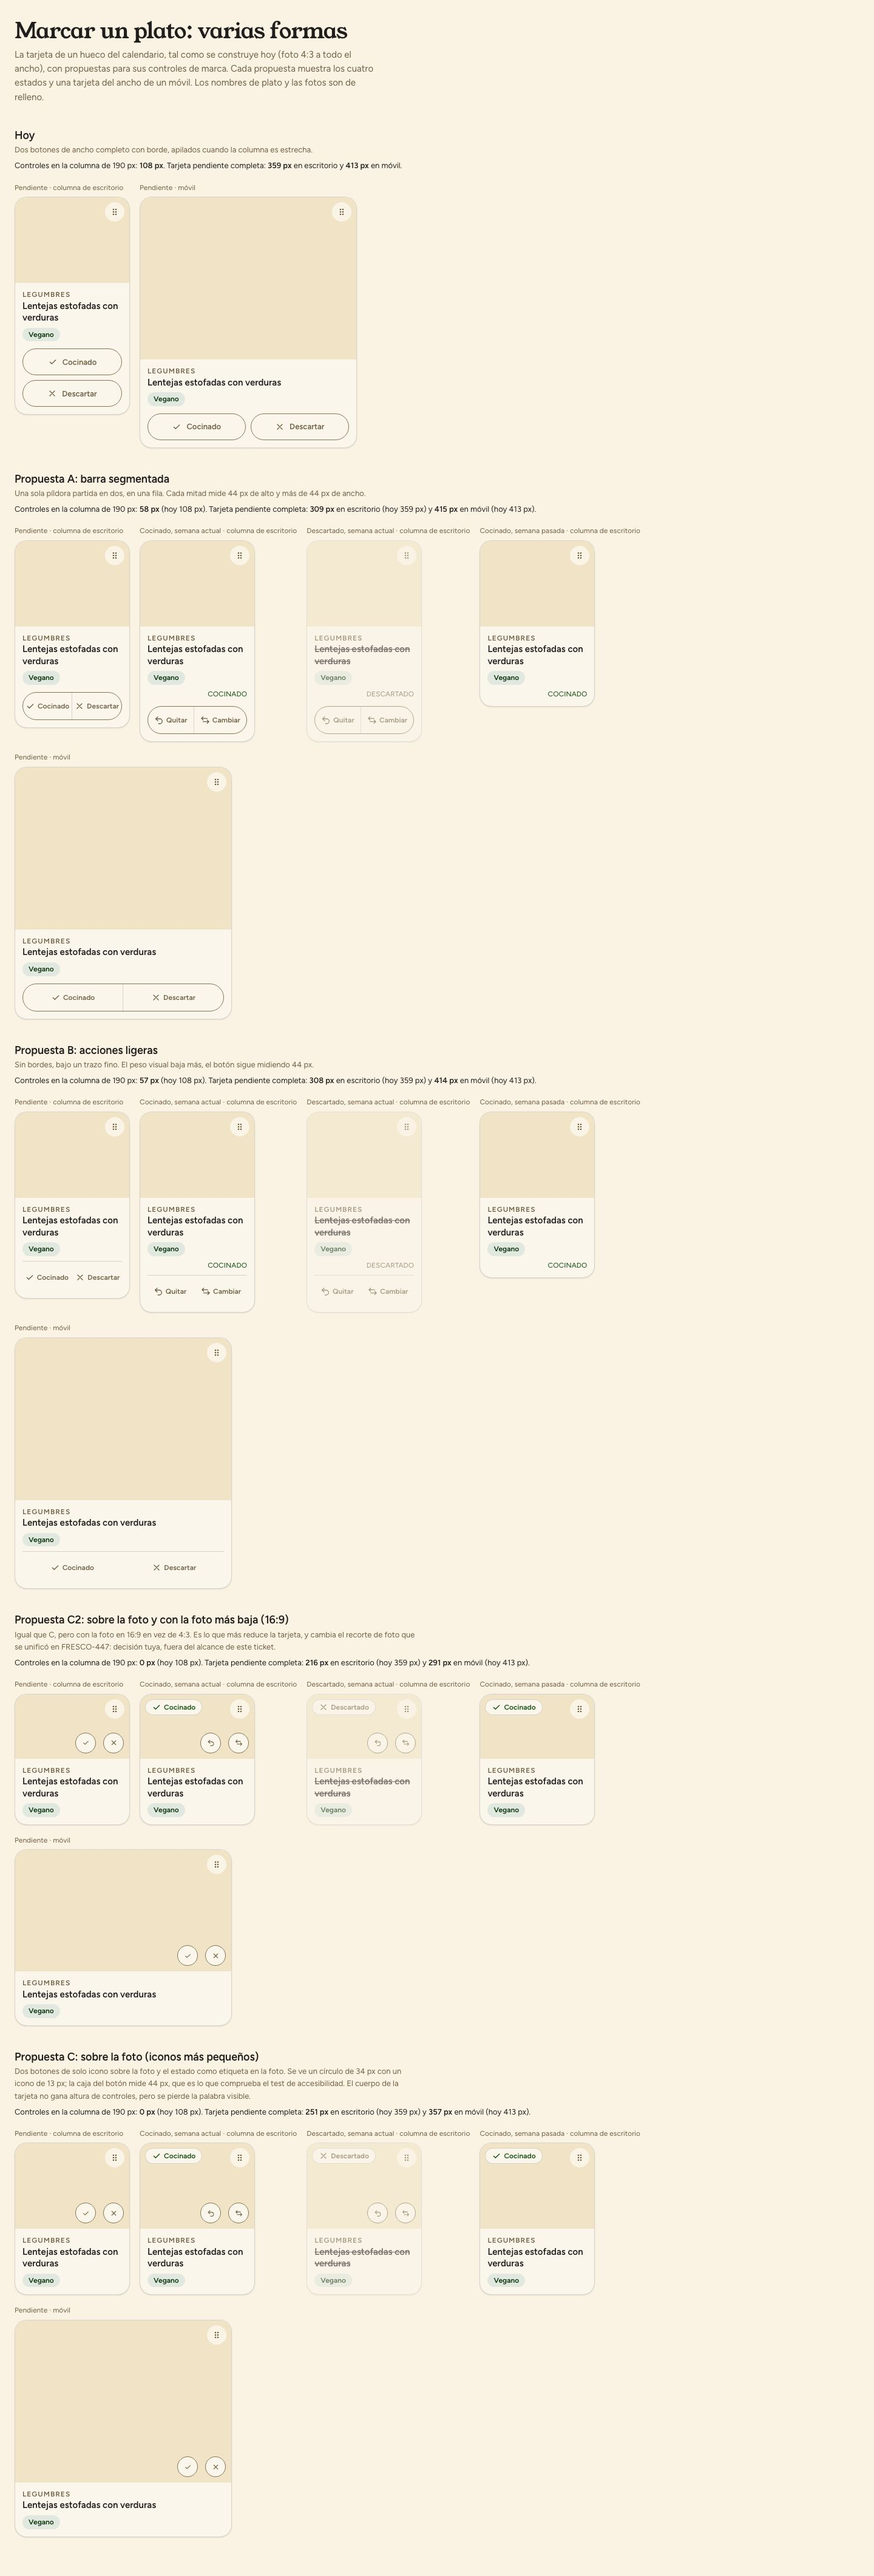
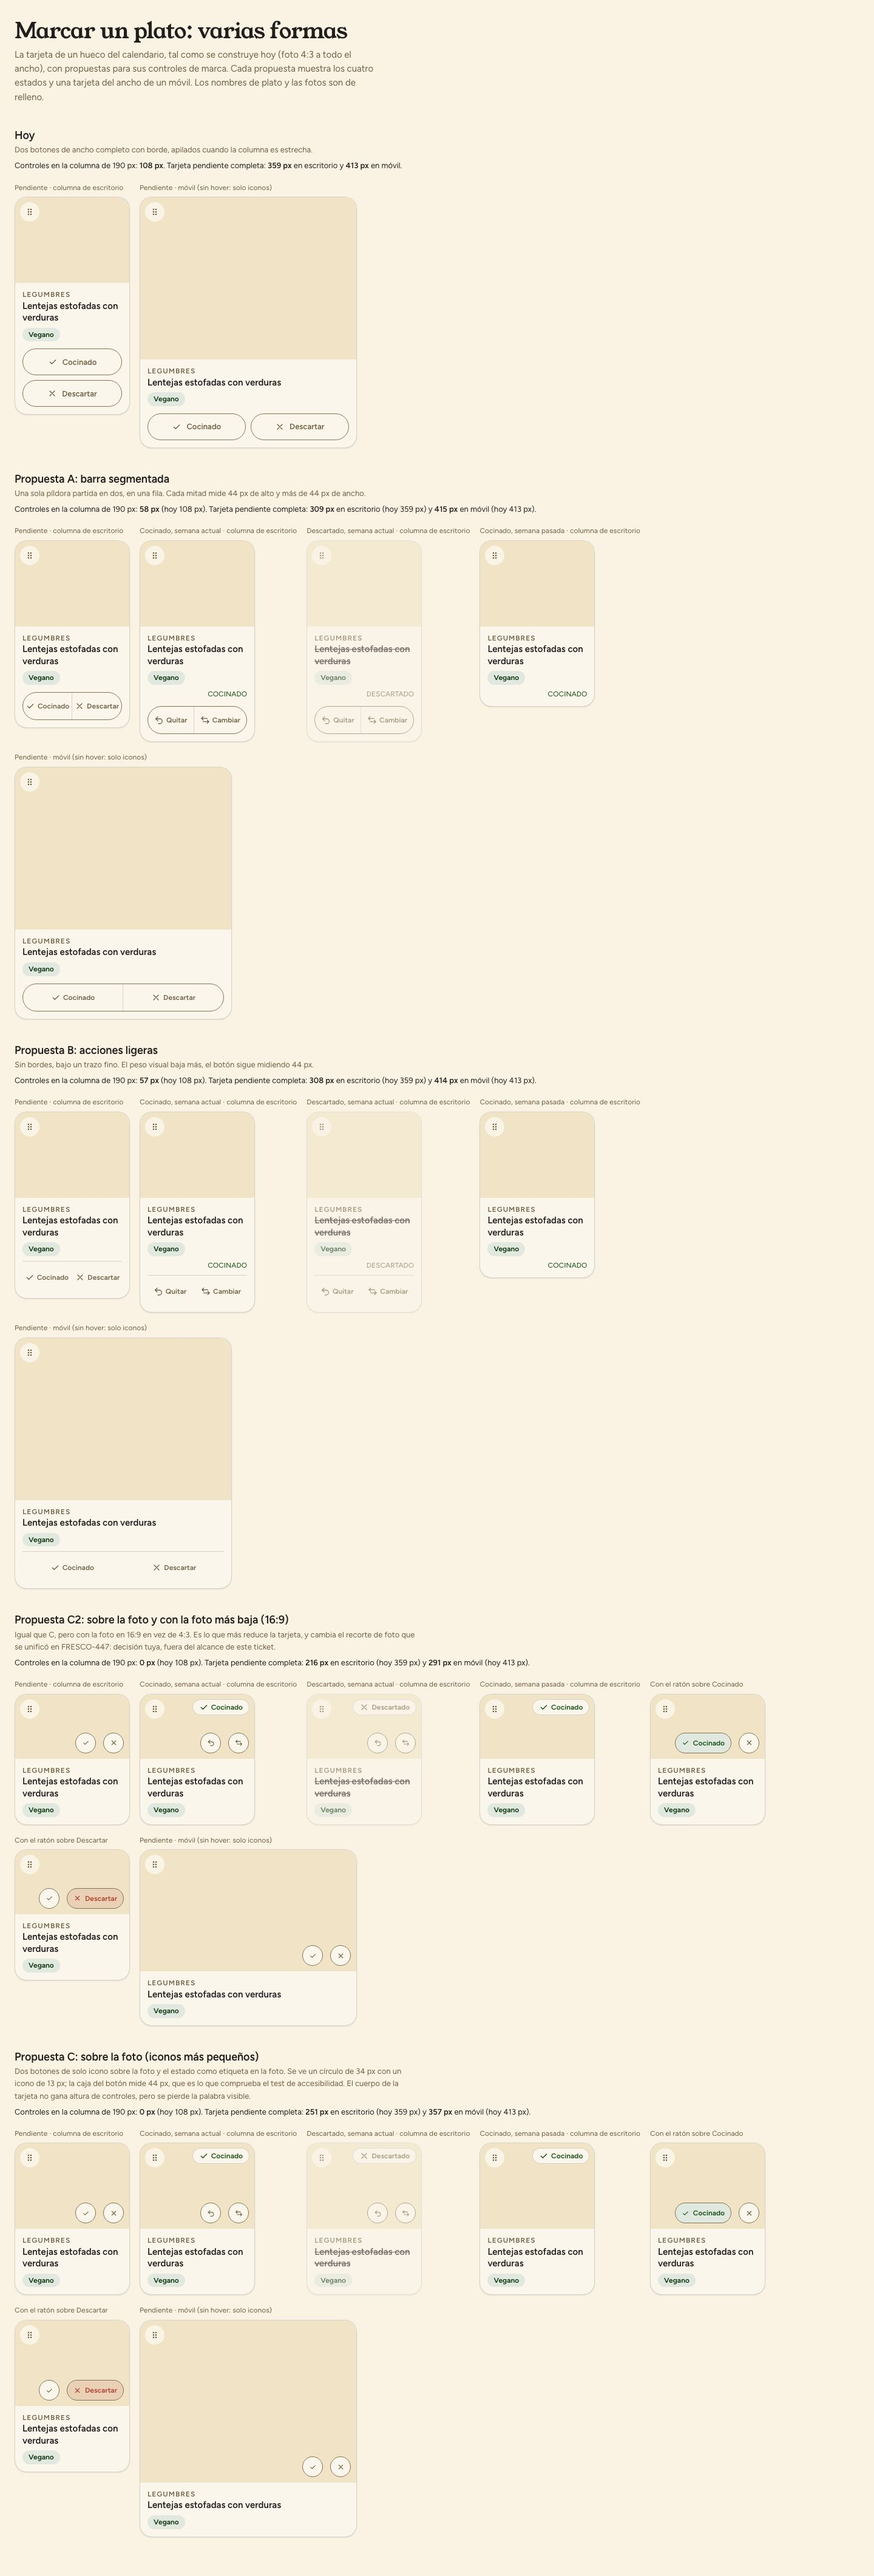
docs(FRESCO-1199): put the chip at the top-right of the photo, mirrored from the drag handle
The slot's drag handle sits at the top-left of the photo (slot-drag-handle.tsx),
and the mockup had drawn it at the top-right with the state chip opposite.
Mirror both in the mockup and in the 4.8 spec: handle top-left, chip top-right,
mark buttons bottom-right.

Worktree: primary
Session: fresco-app-35 (407292fc)

diff --git a/.context/designs/fresco/slot-mark-controls/slot-mark-controls.html b/.context/designs/fresco/slot-mark-controls/slot-mark-controls.html
@@ -38,7 +38,7 @@ section > h2 { font:600 18px/1.3 var(--sans); letter-spacing:-.005em; }
 /* The photo is 4:3 across the whole card, as built (`aspect-4/3` in components/recipe/recipe-card-media.tsx). */
 .photo { position:relative; background:var(--surface); aspect-ratio:4/3; }
 .photo.r169 { aspect-ratio:16/9; }
-.grip { position:absolute; top:8px; right:8px; width:32px; height:32px; border-radius:var(--r-full); background:color-mix(in srgb,var(--raised) 88%,transparent); display:grid; place-items:center; color:var(--tertiary); }
+.grip { position:absolute; top:8px; left:8px; width:32px; height:32px; border-radius:var(--r-full); background:color-mix(in srgb,var(--raised) 88%,transparent); display:grid; place-items:center; color:var(--tertiary); }
 .body { display:flex; flex-direction:column; flex:1; padding:12px; }
 .kicker { font:600 12px/1.2 var(--sans); letter-spacing:.08em; text-transform:uppercase; color:var(--tertiary); }
 .title { font:600 15px/1.3 var(--sans); margin-top:2px; }
@@ -96,7 +96,7 @@ button:focus-visible { outline:2px solid var(--primary); outline-offset:2px; }
   .ov button.bad:hover > i { background:var(--error-tint); }
   .ov button:hover .w { max-width:64px; opacity:1; margin-left:6px; }
 }
-.chip { position:absolute; left:8px; top:8px; display:inline-flex; align-items:center; gap:4px; padding:4px 10px; border-radius:var(--r-full); background:var(--raised); border:1px solid var(--border); font:600 12px/1.2 var(--sans); color:var(--tertiary); }
+.chip { position:absolute; right:8px; top:8px; display:inline-flex; align-items:center; gap:4px; padding:4px 10px; border-radius:var(--r-full); background:var(--raised); border:1px solid var(--border); font:600 12px/1.2 var(--sans); color:var(--tertiary); }
 .chip.ok { color:var(--primary); }
 
 @media (prefers-reduced-motion:reduce) { .seg button,.light button,.ov button > i { transition:none; } .ov .w { transition:opacity var(--quick) ease; } }

diff --git a/.context/design/master-design-plan.md b/.context/design/master-design-plan.md
@@ -283,7 +283,7 @@ Jira / `.context/qa/regression.feature`, not re-listed here.
   "Cocinado" / "Descartar" buttons stop living in the card body. They become two icon buttons over the
   bottom-right of the slot photo (check and X), and once a slot is marked inside the current week the
   same place holds "Quitar marca" and the switch to the other mark. The marked state is a chip over the
-  top-left of the photo (the body badge goes away). A slot in a past week shows the chip and nothing to
+  top-right of the photo, mirrored from the drag handle that sits at the top-left (`slot-drag-handle.tsx`); the mockup first drew them the other way round and was corrected after reading the code (the body badge goes away). A slot in a past week shows the chip and nothing to
   press. What the person sees is a 34 px circle with a 13 px glyph; the button box stays 44 x 44 because
   the e2e step `todos los elementos interactivos miden al menos 44 px` measures the element itself. On
   hover (pointer devices only) and on keyboard focus the circle opens into a pill with the word
